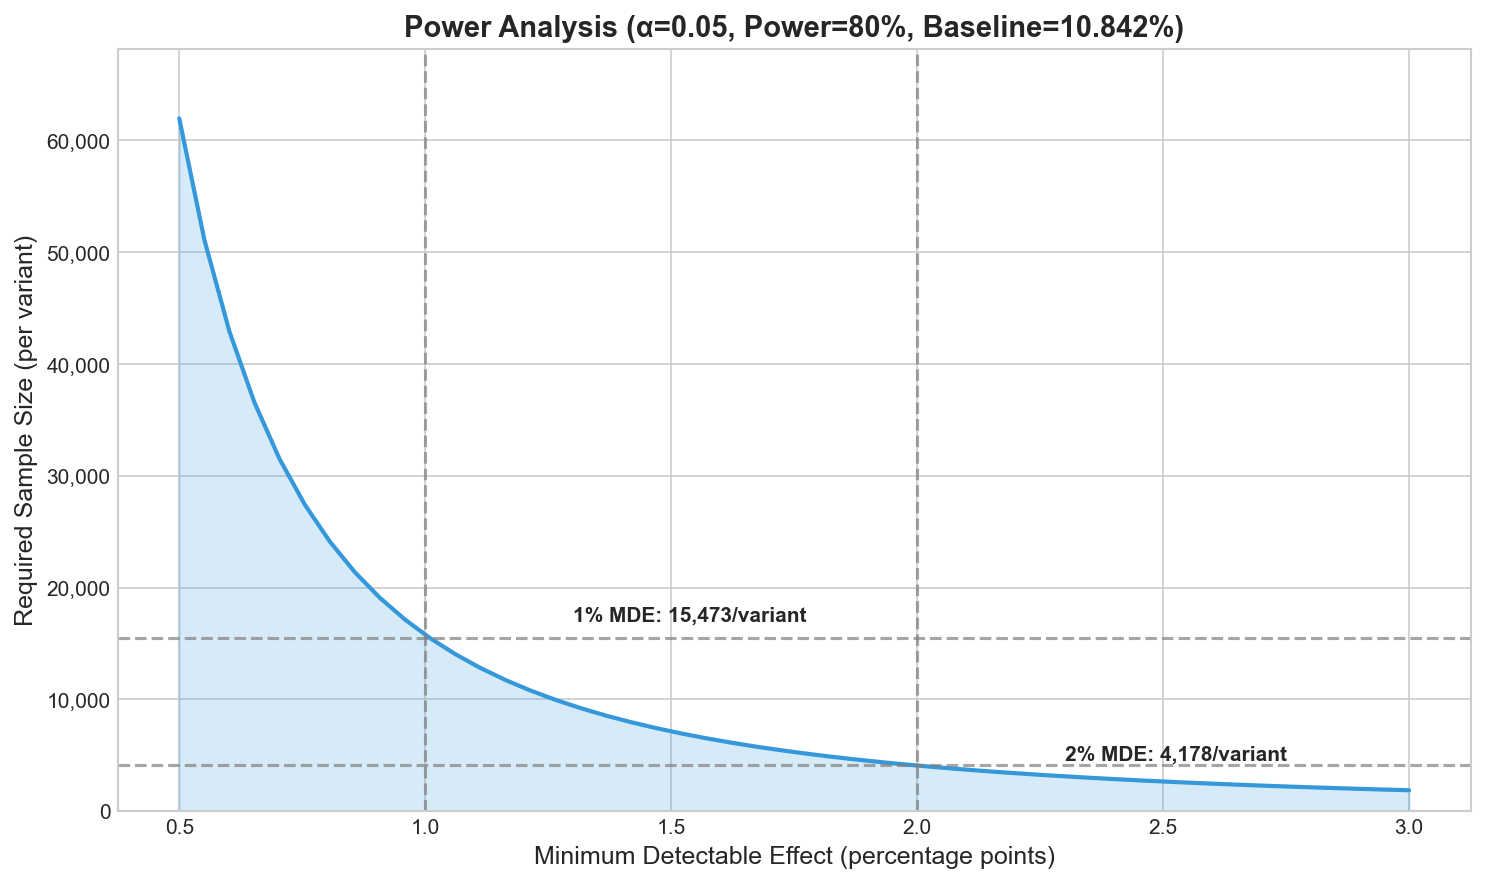
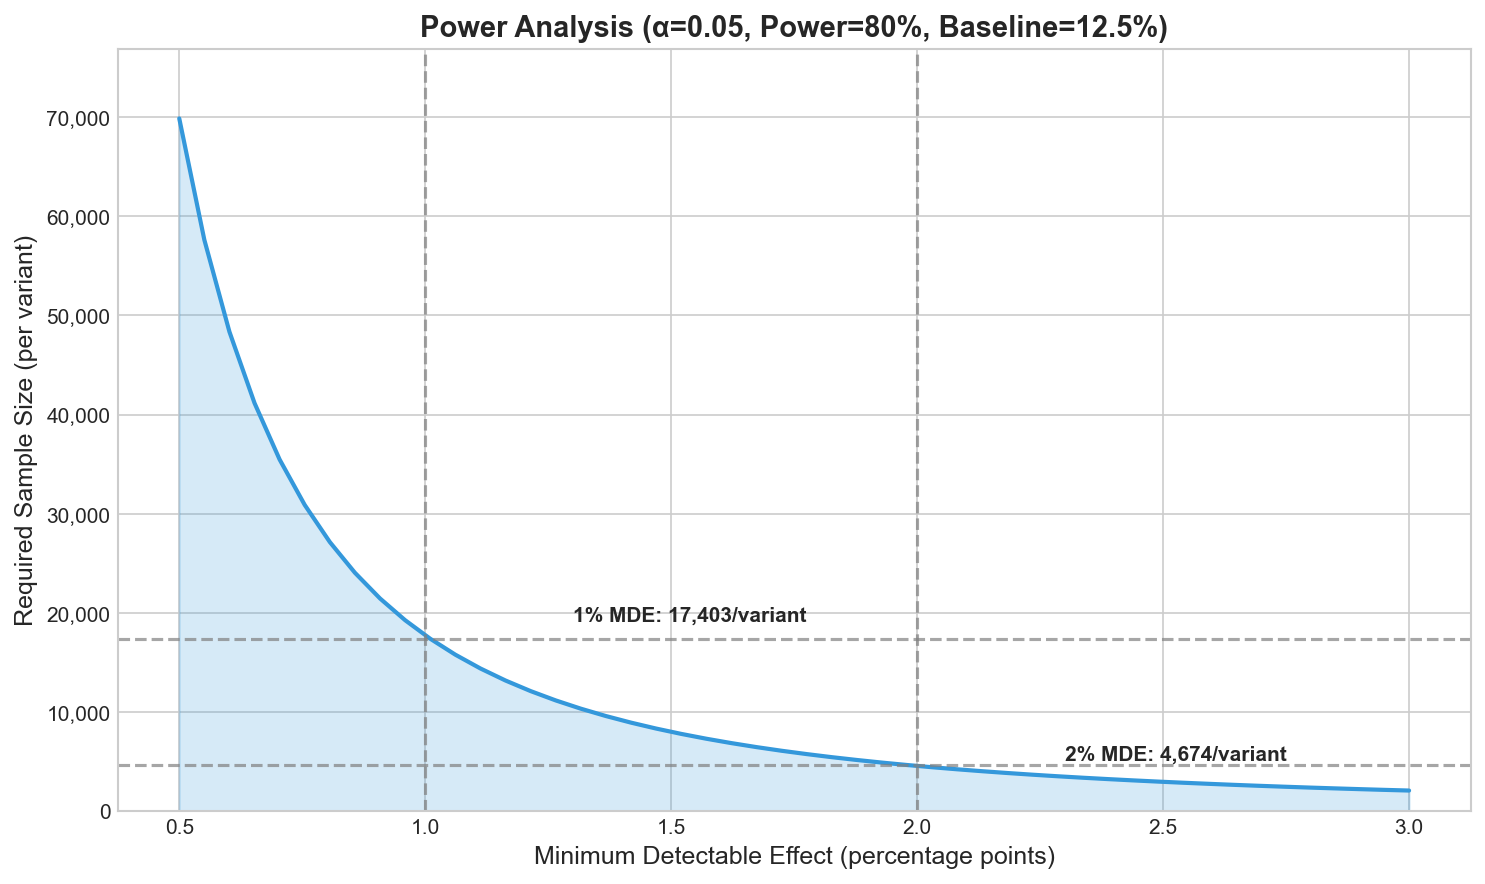
updated readme

diff --git a/src/data_generator.py b/src/data_generator.py
@@ -111,24 +111,6 @@ def generate_ab_test_data():
     return df
 
 
-def add_novelty_effect(df):
-    """Add novelty effect to first few days (optional realism)."""
-    df = df.copy()
-    
-    # First 3 days have slightly higher treatment effect (novelty)
-    first_days = df['timestamp'] < df['timestamp'].min() + timedelta(days=3)
-    treatment_first_days = first_days & (df['variant'] == 'treatment')
-    
-    # 10% of treatment users in first 3 days get artificial boost
-    boost_mask = treatment_first_days & (np.random.random(len(df)) < 0.1)
-    
-    # This is just for demonstration - in real analysis we'd exclude these
-    df.loc[boost_mask & (df['converted'] == 0), 'novelty_flag'] = 1
-    df['novelty_flag'] = df.get('novelty_flag', 0).fillna(0).astype(int)
-    
-    return df
-
-
 def generate_guardrail_metrics(df):
     """Generate guardrail metric data."""
     print("\n🛡️ Generating guardrail metrics...")

diff --git a/src/analyze.py b/src/analyze.py
@@ -126,7 +126,7 @@ This result is **statistically significant** (p < 0.001) with 95% confidence int
 
 **✅ SHIP THE TREATMENT**
 
-The new checkout flow shows strong, statistically significant improvement across all user segments 
+The new checkout flow shows strong, statistically significant improvement overall, with positive lift across major device and user-type segments 
 with no negative impact on guardrail metrics.
 
 ---
@@ -250,7 +250,8 @@ def main():
     # Segment analysis
     print("\n📊 Segment Analysis...")
     segment_by_device = segment_analysis(df, 'device')
-    segment_by_user = segment_analysis(df, 'new_user')
+    df['user_type'] = df['new_user'].map({1: 'New Users', 0: 'Returning Users'})
+    segment_by_user = segment_analysis(df, 'user_type')
     all_segments = pd.concat([segment_by_device, segment_by_user])
 
     # Business impact

diff --git a/src/visualization.py b/src/visualization.py
@@ -312,6 +312,6 @@ def plot_all_results(df: pd.DataFrame, results: dict, output_dir: str):
     )
     
     # 6. Power analysis
-    plot_power_analysis(summary['control_rate'], save_path=output_path / 'power_analysis.png')
+    plot_power_analysis(0.125, save_path=output_path / 'power_analysis.png')
     
     print(f"\n✅ All visualizations saved to {output_path}")

diff --git a/README.md b/README.md
@@ -85,7 +85,7 @@ An e-commerce company wants to test a new checkout flow redesign. Before rolling
 | Z-test | 9.55 | < 0.001 | ✅ Significant |
 | Fisher's Exact | - | < 0.001 | ✅ Significant |
 
-**Confidence Level:** Statistically significant at p < 0.001; 95% confidence interval for the lift excludes zero
+**Inference:** Statistically significant at p < 0.001; the 95% confidence interval for lift excludes zero
 
 ### Business Impact
 
@@ -133,8 +133,10 @@ A-B-Test-Analysis/
 
 ### 1. Hypothesis Testing
 
-**Null Hypothesis (H₀):** No difference in conversion rates  
-**Alternative (H₁):** Treatment has higher conversion rate
+**Null Hypothesis (H₀):** No difference in conversion rates between control and treatment  
+**Alternative (H₁):** Conversion rates differ between control and treatment
+
+The observed difference favored treatment, supporting the business recommendation to ship the new checkout flow.
 
 **Tests Used:**
 - **Chi-squared test:** Standard for comparing proportions
@@ -250,11 +252,9 @@ jupyter notebook                # Explore notebooks
 
 ## Future Scope
 
-1. Add sequential testing to handle early stopping decisions without inflating false positive rates
-2. Explore multi-armed bandit approaches as an alternative to fixed A/B splits for faster optimization
-3. Build a customer lifetime value (CLV) model to weight conversions by predicted long-term revenue, not just order value
-4. Add propensity score matching to enable causal inference on observational data where random assignment isn't possible
-5. Automate the reporting pipeline to generate stakeholder-ready PDF summaries on a scheduled basis
+1. Automate stakeholder-ready report generation on a scheduled basis
+2. Add longer-term post-rollout monitoring (30/60/90 day retention tracking)
+3. Track additional guardrail metrics such as refund rate, support tickets, and repeat purchase rate
 
 ---
 

diff --git a/docs/case_study.md b/docs/case_study.md
@@ -62,8 +62,9 @@ An e-commerce company redesigned their checkout flow to reduce friction. Before 
 
 **Statistical Significance:**
 - p-value: < 0.001
-- Confidence Level: 99.9%
-- P(Treatment > Control): 100%
+- Statistical significance: p < 0.001
+- 95% CI for lift: [1.55pp, 2.35pp]
+- P(Treatment > Control): >99.9% (Bayesian estimate)
 
 **Business Impact** (assuming 500,000 monthly visitors, $85 AOV)**
 - Additional monthly conversions: ~9,750

diff --git a/reports/ab_test_report.md b/reports/ab_test_report.md
@@ -29,7 +29,7 @@ This result is **statistically significant** (p < 0.001) with 95% confidence int
 
 **✅ SHIP THE TREATMENT**
 
-The new checkout flow shows strong, statistically significant improvement across all user segments 
+The new checkout flow shows strong, statistically significant improvement overall, with positive lift across major device and user-type segments 
 with no negative impact on guardrail metrics.
 
 ---